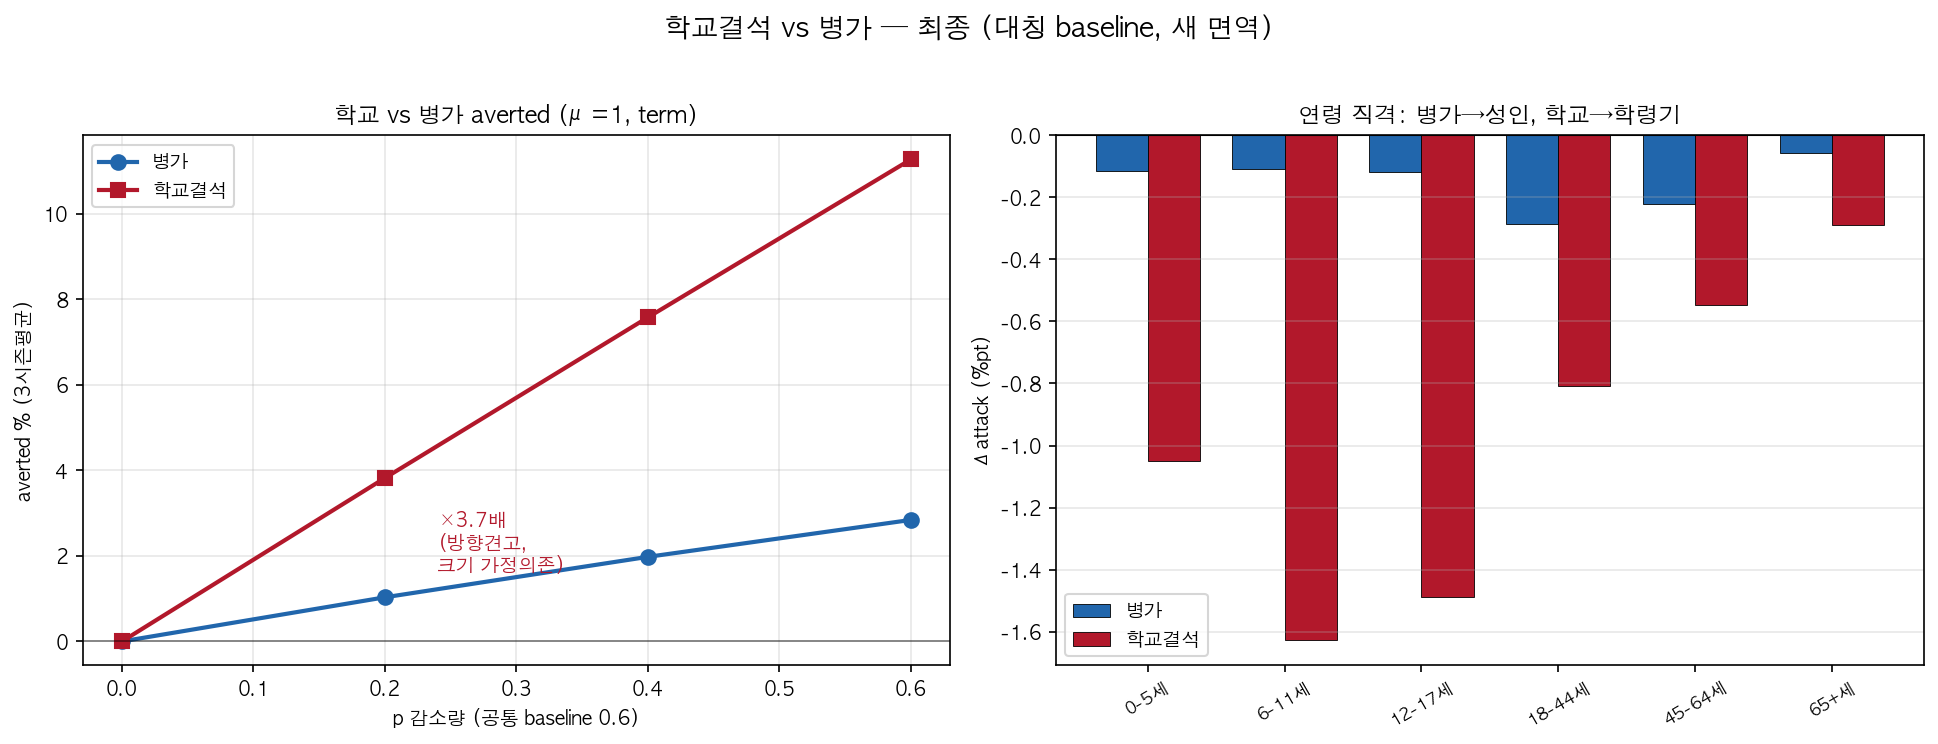
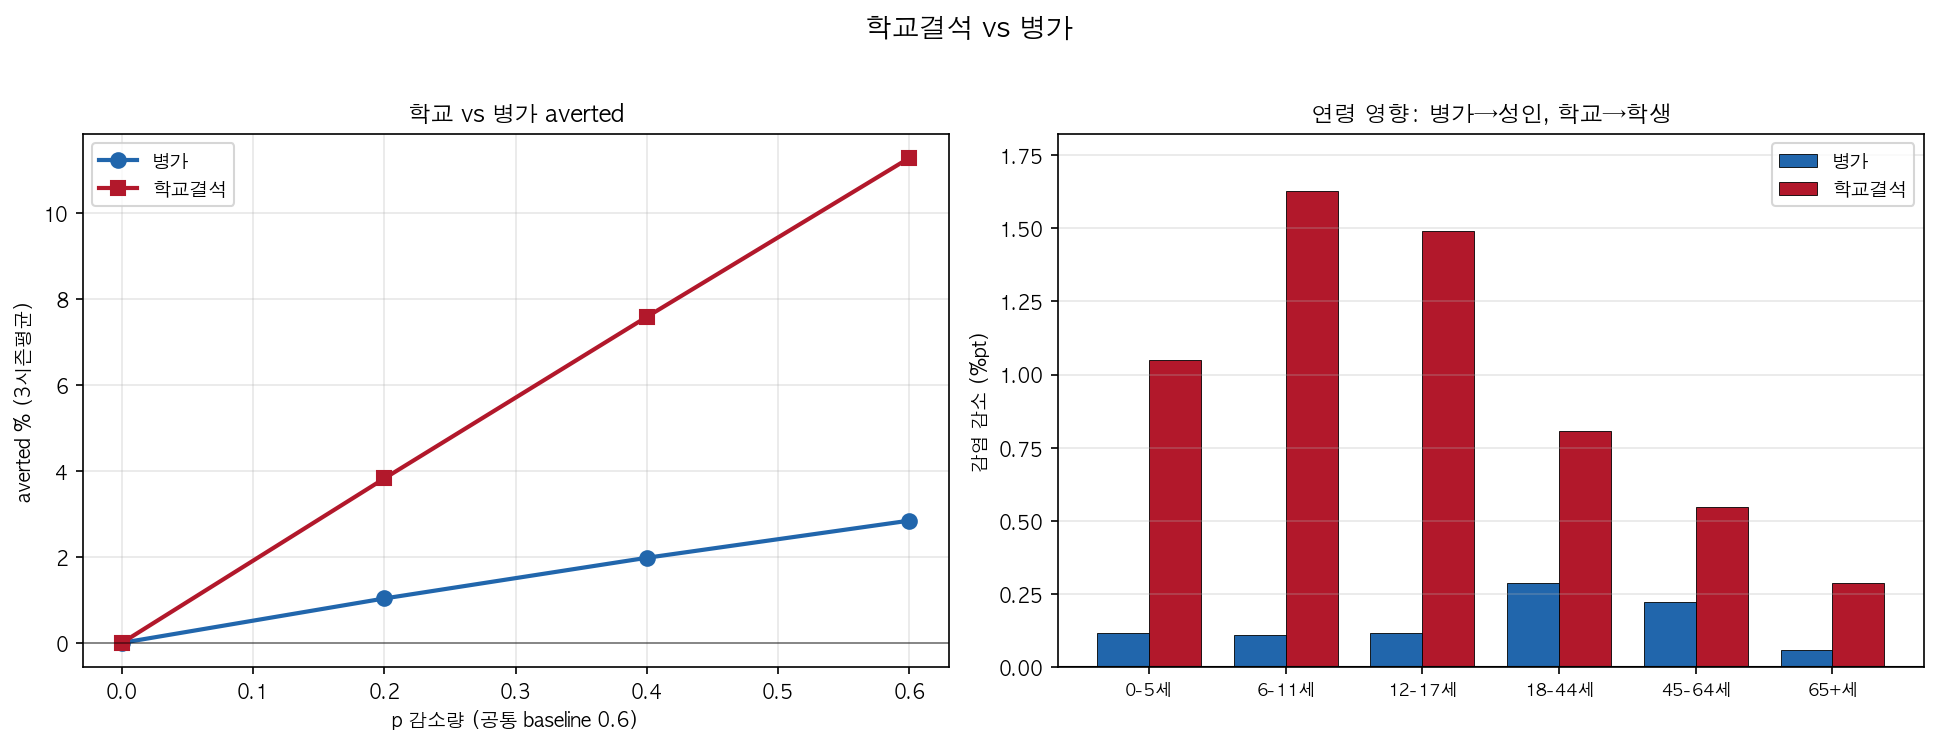
Presentation figures: text cleanup, averted-positive orientation, number variant
Figure edits (data/parameters unchanged, confirmed params throughout):
- viz_holiday_reversal_6seasons: plain titles, legend 학기/방학
- pres_school_vs_sick: drop ratio annotation, right panel flipped to
  averted (positive-up), horizontal age labels
- pres_school_vs_sick_number (new): same layout, right panel = averted
  number (명); adults dominate under number, students under rate
- viz_fit_erlang_byage: Erlang-only (single-I removed), ylim unified to
  100k across all 18 panels, per-age colors matching pres_fit_byage
- viz_contact_matrix_term_vacation, viz_infectious_period (new)

Redraw scripts cache their curve data to outputs/eda/*.json so later text
edits need no refit (REDRAW=1). outputs/ is gitignored.

diff --git a/scripts/regen_holiday_fig.py b/scripts/regen_holiday_fig.py
@@ -1,0 +1,59 @@
+"""viz_holiday_reversal_6seasons.png 만 재생성 (문구 수정본). 6시즌 fit + 방학 holiday만.
+데이터도 outputs/eda/regen_holiday.json 에 저장 → 향후 문구 수정은 이 JSON에서 즉시 재생성 가능."""
+import os, json, time
+os.environ["OMP_NUM_THREADS"]="1"; os.environ["OPENBLAS_NUM_THREADS"]="1"
+os.environ["MKL_NUM_THREADS"]="1"; os.environ["VECLIB_MAXIMUM_THREADS"]="1"
+os.environ["XLA_FLAGS"]="--xla_force_host_platform_device_count=1"
+from pathlib import Path
+import numpy as np
+import matplotlib; matplotlib.use("Agg"); import matplotlib.pyplot as plt
+plt.rcParams.update({"figure.dpi":110,"savefig.dpi":150,"axes.unicode_minus":False,"font.family":"AppleGothic","font.size":9})
+from kt_epimodel_hira.jax_model.loss_jax import HIRA_AGE_GROUPS
+import final_pipeline_confirmed as FP
+ED=Path(__file__).resolve().parent.parent/"outputs"/"eda"; FIG=Path(__file__).resolve().parent.parent/"presentations"/"figures"
+SEAS=FP.SEASONS; IDX=list(range(len(SEAS))) if False else [FP.MJ.SEASONS.index(s) for s in SEAS]
+PSHOW=0.2; CHILD=["0-5","6-11","12-17"]; BLUE="#2166AC"; RED="#B23A48"; JSON=ED/"regen_holiday.json"
+
+def compute():
+    t0=time.perf_counter(); C=FP.build(); print(f"[setup] {time.perf_counter()-t0:.1f}s")
+    hol={}
+    for i,s in enumerate(SEAS):
+        f=FP.fit_season_pi(C,i); R0,pi=f["R0"],f["pi"]
+        base=FP.attack6(C,FP.run_inc(C,i,R0,pi,p_work=FP.BASE_PWORK))
+        def da(work_win):
+            inc=FP.run_inc(C,i,R0,pi,p_work=PSHOW,work_win=work_win,work_base=FP.BASE_PWORK)
+            d=(FP.attack6(C,inc)-base)/C["pop6"]; return {ag:float(100*d[a]) for a,ag in enumerate(HIRA_AGE_GROUPS)}
+        dt=da(FP.TERM_WIN); dv=da(FP.VAC_WIN)
+        hol[s]=dict(term=dict(all=dt,child_sum=sum(dt[c] for c in CHILD)),
+                    vacation=dict(all=dv,child_sum=sum(dv[c] for c in CHILD)))
+        print(f"  {s}: term_child={hol[s]['term']['child_sum']:+.3f} vac_child={hol[s]['vacation']['child_sum']:+.3f}")
+    JSON.write_text(json.dumps(dict(meta=dict(PSHOW=PSHOW,baseline=FP.BASE_PWORK),results=hol),indent=2,default=float))
+    return hol
+
+def draw(hol):
+    labels=[f"{s[2:4]}-{s[7:9]}" for s in SEAS]
+    term=np.array([hol[s]["term"]["child_sum"] for s in SEAS]); vac=np.array([hol[s]["vacation"]["child_sum"] for s in SEAS])
+    fig,(ax1,ax2)=plt.subplots(2,1,figsize=(10,8.2)); x=np.arange(len(SEAS)); bw=0.38
+    # ── 문구 수정본 ──
+    ax1.bar(x-bw/2,term,bw,color=BLUE,label="학기",edgecolor="k",lw=0.5)          # legend: 학기
+    ax1.bar(x+bw/2,vac,bw,color=RED,label="방학",edgecolor="k",lw=0.5)            # legend: 방학
+    ax1.axhline(0,color="k",lw=1.8)
+    for xi,(tv,vv) in enumerate(zip(term,vac)):
+        ax1.text(xi-bw/2,tv-0.006,f"{tv:+.2f}",ha="center",va="top",fontsize=7.5,color=BLUE)
+        ax1.text(xi+bw/2,vv+0.006,f"{vv:+.2f}",ha="center",va="bottom",fontsize=7.5,color=RED)
+    ax1.set_xticks(x); ax1.set_xticklabels(labels); ax1.set_ylabel("아동(0–17) Δattack 합 (%pt)")
+    ax1.set_title(f"병가 아동영향: 학기중(파랑) vs 방학중(빨강) 개입 p_work={PSHOW}",fontsize=11.5,fontweight="bold")
+    ax1.legend(loc="upper right"); ax1.grid(axis="y",alpha=0.3); ax1.margins(y=0.18)
+    age_c={"0-5":"#9ecae1","6-11":"#ef6548","12-17":"#b30000"}; bw2=0.26
+    for j,ag in enumerate(CHILD):
+        vals=np.array([hol[s]["vacation"]["all"][ag] for s in SEAS]); ax2.bar(x+(j-1)*bw2,vals,bw2,color=age_c[ag],label=f"{ag}세",edgecolor="k",lw=0.4)
+    ax2.axhline(0,color="k",lw=1.5); ax2.set_xticks(x); ax2.set_xticklabels(labels); ax2.set_ylabel("방학중 Δattack (%pt)")
+    ax2.set_title("방학중 연령별 변화",fontsize=11.5,fontweight="bold")
+    ax2.legend(loc="upper left",ncol=3); ax2.grid(axis="y",alpha=0.3); ax2.margins(y=0.15)
+    fig.suptitle(f"학기중과 방학 비교 (p_work={PSHOW})",fontsize=13,fontweight="bold",y=0.995)
+    fig.tight_layout(rect=[0,0,1,0.97]); fig.savefig(FIG/"viz_holiday_reversal_6seasons.png",bbox_inches="tight"); plt.close(fig)
+    print(f"[fig] viz_holiday_reversal_6seasons.png")
+
+if __name__=="__main__":
+    hol=json.load(open(JSON))["results"] if (JSON.exists() and os.environ.get("REDRAW")) else compute()
+    draw(hol)

diff --git a/scripts/school_vs_sick_redraw.py b/scripts/school_vs_sick_redraw.py
@@ -1,0 +1,54 @@
+"""pres_school_vs_sick(.png) 수정본 + pres_school_vs_sick_number.png 신규.
+저장 데이터(v3_school_vs_sick.json + v3_rate_vs_number.json)로만 재작도 — 계산 없음.
+그림A 오른쪽: averted rate (양수, 위로). 그림B 오른쪽: averted number(명).
+확정 파라미터(3시즌, p=0.4, μ=1). model/·.bak 무수정."""
+import os, json
+os.environ["XLA_FLAGS"]="--xla_force_host_platform_device_count=1"
+from pathlib import Path
+import numpy as np
+import matplotlib; matplotlib.use("Agg"); import matplotlib.pyplot as plt
+plt.rcParams.update({"figure.dpi":110,"savefig.dpi":150,"axes.unicode_minus":False,"font.family":"AppleGothic","font.size":9})
+from kt_epimodel_hira.jax_model.loss_jax import HIRA_AGE_GROUPS
+
+ED=Path(__file__).resolve().parent.parent/"outputs"/"eda"
+FIG=Path(__file__).resolve().parent.parent/"presentations"/"figures"
+BLUE="#2166AC"; RED="#B2182B"; BASE=0.6
+sv=json.load(open(ED/"v3_school_vs_sick.json")); rn=json.load(open(ED/"v3_rate_vs_number.json"))
+P=sv["meta"]["P"]; SEAS=list(sv["results"].keys())
+xs=[BASE-p for p in P]
+sick_curve=[float(np.mean([sv["results"][s]["sick"][str(p)]["av"] for s in SEAS])) for p in P]
+sch_curve =[float(np.mean([sv["results"][s]["school"][str(p)]["av"] for s in SEAS])) for p in P]
+av_rate_sk=-np.asarray(rn["rate_sick"]); av_rate_sc=-np.asarray(rn["rate_school"])   # 감소를 양수로
+num_sk=np.asarray(rn["num_sick"]); num_sc=np.asarray(rn["num_school"])               # 이미 양수(명)
+AGL=[a+"세" for a in HIRA_AGE_GROUPS]; x=np.arange(6); bw=0.38
+
+def left(a1):
+    a1.plot(xs,sick_curve,"o-",color=BLUE,lw=2,ms=7,label="병가")
+    a1.plot(xs,sch_curve,"s-",color=RED,lw=2,ms=7,label="학교결석")
+    a1.axhline(0,color="k",lw=0.8,alpha=0.5)
+    a1.set_xlabel("p 감소량 (공통 baseline 0.6)"); a1.set_ylabel("averted % (3시즌평균)")
+    a1.set_title("학교 vs 병가 averted",fontsize=11,fontweight="bold")
+    a1.legend(fontsize=9); a1.grid(alpha=0.3)
+
+def right_bars(a2,ysk,ysc,ylab,title):
+    a2.bar(x-bw/2,ysk,bw,color=BLUE,label="병가",edgecolor="k",lw=0.4)
+    a2.bar(x+bw/2,ysc,bw,color=RED,label="학교결석",edgecolor="k",lw=0.4)
+    a2.axhline(0,color="k",lw=1); a2.set_xticks(x); a2.set_xticklabels(AGL,rotation=0,fontsize=8)
+    a2.set_ylabel(ylab); a2.set_title(title,fontsize=11,fontweight="bold")
+    a2.legend(fontsize=9); a2.grid(axis="y",alpha=0.3); a2.margins(y=0.12)
+
+# ── 그림 A: averted rate (%pt) ──
+fig,(a1,a2)=plt.subplots(1,2,figsize=(13,5))
+left(a1)
+right_bars(a2,av_rate_sk,av_rate_sc,"감염 감소 (%pt)","연령 영향: 병가→성인, 학교→학생")
+fig.suptitle("학교결석 vs 병가",fontsize=13,fontweight="bold")
+fig.tight_layout(rect=[0,0,1,0.95]); fig.savefig(FIG/"pres_school_vs_sick.png",bbox_inches="tight"); plt.close(fig)
+print(f"[figA] pres_school_vs_sick.png  rate 최대: 병가={HIRA_AGE_GROUPS[av_rate_sk.argmax()]} 학교={HIRA_AGE_GROUPS[av_rate_sc.argmax()]}")
+
+# ── 그림 B: averted number (명) ──
+fig,(a1,a2)=plt.subplots(1,2,figsize=(13,5))
+left(a1)
+right_bars(a2,num_sk,num_sc,"averted number (명)","연령 영향 (감염 수): 병가→성인, 학교→성인")
+fig.suptitle("학교결석 vs 병가",fontsize=13,fontweight="bold")
+fig.tight_layout(rect=[0,0,1,0.95]); fig.savefig(FIG/"pres_school_vs_sick_number.png",bbox_inches="tight"); plt.close(fig)
+print(f"[figB] pres_school_vs_sick_number.png  number 최대: 병가={HIRA_AGE_GROUPS[num_sk.argmax()]}({num_sk.max():.0f}명) 학교={HIRA_AGE_GROUPS[num_sc.argmax()]}({num_sc.max():.0f}명)")

diff --git a/scripts/viz_contact_matrix.py b/scripts/viz_contact_matrix.py
@@ -1,0 +1,54 @@
+"""학기/방학 접촉행렬 히트맵 (발표용). 3패널: 학기 전체 / 방학 전체 / 차분.
+
+★ 축 관례 (로더 검증 완료):
+  load_contact_matrices 는 모델 컨벤션 [contact, participant] 로 반환(transpose=True).
+  즉 반환행렬 C[i,j]: 행 i = contact(접촉 상대), 열 j = participant(응답자).
+  → 태스크 요구(x=participant, y=contacted)와 이미 일치 → transpose 불필요.
+  검증: C_work 아동 열(participant)=0 (아동은 직장 접촉 미보고).
+전체행렬 = 4채널(home+work+school+other) 합. 값=1인1일당 접촉수.
+Output: figures/viz_contact_matrix_term_vacation.png
+"""
+import os
+os.environ["XLA_FLAGS"]="--xla_force_host_platform_device_count=1"
+from pathlib import Path
+import numpy as np
+import matplotlib; matplotlib.use("Agg")
+import matplotlib.pyplot as plt
+from matplotlib.colors import TwoSlopeNorm
+plt.rcParams.update({"figure.dpi":110,"savefig.dpi":150,"axes.unicode_minus":False,"font.family":"AppleGothic","font.size":9})
+from kt_data.data.load_contact import load_contact_matrices
+
+D=Path("../kt_data/data/external/contact_matrices")
+FIG=Path(__file__).resolve().parent.parent/"presentations"/"figures"; FIG.mkdir(parents=True,exist_ok=True)
+LAB=["0-4","5-9","10-14","15-19","20-24","25-29","30-34","35-39","40-44","45-49","50-54","55-59","60-64","65-69","70+"]
+CH=("C_home","C_school","C_work","C_other")
+
+def total(path):
+    m=load_contact_matrices(path=path)   # [contact, participant]
+    return sum(np.asarray(m[c]) for c in CH)  # (15,15)
+
+term=total(D/"empirical_matrices_15.npz")       # 학기 (현 base)
+vac=total(D/"empirical_matrices_15_vacation.npz")# 방학
+diff=term-vac                                     # 학기−방학 (양수=방학에 감소)
+print(f"학기 합={term.sum():.1f} 방학 합={vac.sum():.1f}  차분 합={diff.sum():.1f}")
+# 대칭성 (raw 비대칭 확인)
+print(f"학기 max|C-C.T|={np.abs(term-term.T).max():.3f} (비대칭 raw)")
+
+vmax=max(term.max(),vac.max())
+fig,axes=plt.subplots(1,2,figsize=(13,6))
+def draw(ax,M,title,cmap,vmin=None,vmax=None):
+    im=ax.imshow(M,origin="lower",cmap=cmap,vmin=vmin,vmax=vmax,aspect="equal")
+    ax.set_xticks(range(15)); ax.set_xticklabels(LAB,rotation=90,fontsize=7)
+    ax.set_yticks(range(15)); ax.set_yticklabels(LAB,fontsize=7)
+    ax.set_xlabel("응답자 연령 (participant)",fontsize=9); ax.set_ylabel("접촉 상대 연령 (contacted)",fontsize=9)
+    ax.set_title(title,fontsize=12,fontweight="bold")
+    return im
+im1=draw(axes[0],term,"학기 (term)","YlOrRd",vmin=0,vmax=vmax)
+im2=draw(axes[1],vac,"방학 (vacation)","YlOrRd",vmin=0,vmax=vmax)
+cb1=fig.colorbar(im2,ax=axes,fraction=0.023,pad=0.02); cb1.set_label("일 평균 접촉 수",fontsize=9)
+fig.suptitle("학기 vs 방학 접촉행렬",fontsize=14,fontweight="bold")
+fig.savefig(FIG/"viz_contact_matrix_term_vacation.png",bbox_inches="tight"); plt.close(fig)
+print(f"[fig] {FIG/'viz_contact_matrix_term_vacation.png'}")
+# 방학 school 감소 확인: 학령기(5-19=idx1-3) 영역 차분
+sa=diff[1:4,1:4]
+print(f"학령기(5-19) 블록 차분 평균={sa.mean():.3f} (양수=방학에 감소)  최대감소셀={diff.max():.3f}")

diff --git a/scripts/erlang_byage_redraw.py b/scripts/erlang_byage_redraw.py
@@ -1,0 +1,57 @@
+"""viz_fit_erlang_byage.png 재작도 — Erlang만, y축 10만 고정.
+재적합(fitting) 없음: erlang_fit.json 의 확정 R0/pi 로 forward 예측만 (3시즌).
+예측곡선을 erlang_byage_preds.json 에 저장 → 이후 문구/축 수정은 REDRAW=1 로 즉시(계산 없음).
+단일 I 제거. 색=연령별(pres_fit_byage 통일). model/·.bak 무수정."""
+import os, json
+os.environ["OMP_NUM_THREADS"]="1"; os.environ["OPENBLAS_NUM_THREADS"]="1"
+os.environ["MKL_NUM_THREADS"]="1"; os.environ["VECLIB_MAXIMUM_THREADS"]="1"
+os.environ["XLA_FLAGS"]="--xla_force_host_platform_device_count=1"
+from pathlib import Path
+import numpy as np
+import matplotlib; matplotlib.use("Agg"); import matplotlib.pyplot as plt
+plt.rcParams.update({"figure.dpi":110,"savefig.dpi":150,"axes.unicode_minus":False,"font.family":"AppleGothic","font.size":9})
+from kt_epimodel_hira.jax_model.loss_jax import HIRA_AGE_GROUPS
+
+ED=Path(__file__).resolve().parent.parent/"outputs"/"eda"
+FIG=Path(__file__).resolve().parent.parent/"presentations"/"figures"
+FB=FIG/"viz_fit_erlang_byage.png"; PJ=ED/"erlang_byage_preds.json"
+SEAS=["2016-2017","2017-2018","2019-2020"]
+AGE_C=["#4575b4","#74add1","#fdae61","#f46d43","#d73027","#7b3294"]; GRAY="#666666"; YMAX=100000.0
+
+fit=json.load(open(ED/"erlang_fit.json"))
+
+def compute():
+    import jax; jax.config.update("jax_enable_x64",True); jax.devices()
+    import erlang_fit as E   # forward pred helpers + build
+    C=E.F.build(); preds={}
+    for s in SEAS:
+        i=E.F.SEASONS.index(s); r=fit["results"][s]["erlang"]
+        preds[s]=E.pred_erlang(C,i,r["R0"],r["pi"]).tolist()
+    obs={s:np.asarray(C["full_obs"][s]).tolist() for s in SEAS}
+    PJ.write_text(json.dumps(dict(preds=preds,obs=obs),default=float))
+    return preds,obs
+
+def draw(preds,obs):
+    weeks=np.arange(52)
+    fig,axes=plt.subplots(3,6,figsize=(16,7.5),sharex=True,sharey=True)
+    for r,s in enumerate(SEAS):
+        pe=np.asarray(preds[s]); ob=np.asarray(obs[s])
+        for c,ag in enumerate(HIRA_AGE_GROUPS):
+            ax=axes[r,c]
+            ax.plot(weeks,ob[:,c],"o",color=GRAY,ms=2,alpha=0.6)
+            ax.plot(weeks,pe[:,c],"-",color=AGE_C[c],lw=1.6)
+            ax.set_ylim(0,YMAX); ax.grid(alpha=0.2)
+            ax.text(0.04,0.8,f"{fit['results'][s]['erlang']['om_age'][ag]:.2f}",transform=ax.transAxes,fontsize=7,color="#333")
+            if r==0: ax.set_title(f"{ag}세",fontsize=9,fontweight="bold")
+            if c==0: ax.set_ylabel(f"{s}",fontsize=8,fontweight="bold")
+            ax.tick_params(labelsize=6)
+    fig.suptitle("3시즌 × 연령별 fit (Erlang I₃)",fontsize=12.5,fontweight="bold")
+    fig.tight_layout(rect=[0,0,1,0.96]); fig.savefig(FB,bbox_inches="tight"); plt.close(fig)
+    print(f"[fig] {FB}")
+
+if __name__=="__main__":
+    if PJ.exists() and os.environ.get("REDRAW"):
+        d=json.load(open(PJ)); preds,obs=d["preds"],d["obs"]
+    else:
+        preds,obs=compute()
+    draw(preds,obs)

diff --git a/scripts/viz_infectious_period.py b/scripts/viz_infectious_period.py
@@ -1,0 +1,43 @@
+"""감염기간 분포 개념도: 지수(단일 I) vs Erlang(3). 발표용.
+좌: 감염기간 확률밀도 (둘 다 평균 4일, 모양 차이). 우: 유행곡선 폭 연결(개념).
+지수=빨강, Erlang=녹색 (Erlang fit 그림과 색 통일). Output: figures/viz_infectious_period.png"""
+import os
+os.environ["XLA_FLAGS"]="--xla_force_host_platform_device_count=1"
+from pathlib import Path
+import numpy as np
+from scipy.stats import expon, erlang
+import matplotlib; matplotlib.use("Agg"); import matplotlib.pyplot as plt
+plt.rcParams.update({"figure.dpi":110,"savefig.dpi":150,"axes.unicode_minus":False,"font.family":"AppleGothic","font.size":10})
+FIG=Path(__file__).resolve().parent.parent/"presentations"/"figures"; FIG.mkdir(parents=True,exist_ok=True)
+EXP="#B23A48"; ERL="#1a9850"
+MEAN=4.0; GAMMA=1/MEAN   # 평균 감염기간 4일
+t=np.linspace(0,15,600)
+# 지수(단일 I): rate γ, 평균 1/γ=4
+pdf_exp=expon.pdf(t,scale=MEAN)
+# Erlang(3): shape k=3, 각 단계 rate 3γ → scale=1/(3γ)=MEAN/3, 평균 k*scale=4
+pdf_erl=erlang.pdf(t,3,scale=MEAN/3)
+
+fig,(a1,a2)=plt.subplots(1,2,figsize=(13,5))
+# 좌: 밀도
+a1.plot(t,pdf_exp,"-",color=EXP,lw=2.5,label="지수 (단일 I)")
+a1.plot(t,pdf_erl,"-",color=ERL,lw=2.5,label="Erlang(3)")
+a1.fill_between(t,pdf_exp,alpha=0.08,color=EXP); a1.fill_between(t,pdf_erl,alpha=0.10,color=ERL)
+a1.axvline(MEAN,color="k",ls="--",lw=1.3); a1.text(MEAN+0.2,0.235,"평균 4일",fontsize=10,fontweight="bold")
+a1.set_xlabel("감염 후 경과일"); a1.set_ylabel("확률밀도")
+a1.set_title("감염기간 분포",fontsize=13,fontweight="bold")
+a1.legend(fontsize=11,loc="upper right"); a1.grid(alpha=0.25); a1.set_xlim(0,15); a1.set_ylim(bottom=0)
+
+# 우: 개념 유행곡선
+x=np.linspace(0,52,400); mu=18
+def bell(sd,amp): return amp*np.exp(-0.5*((x-mu)/sd)**2)
+a2.plot(x,bell(5.0,1.0),"-",color=EXP,lw=2.5,label="지수")
+a2.plot(x,bell(4.0,1.18),"-",color=ERL,lw=2.5,label="Erlang(3)")
+a2.set_xlabel("주차"); a2.set_title("유행 곡선",fontsize=13,fontweight="bold")
+a2.legend(fontsize=11); a2.grid(alpha=0.25); a2.set_yticks([])
+
+fig.suptitle("지수 vs Erlang(3) — 같은 평균(4일), 다른 분포",fontsize=14,fontweight="bold")
+fig.tight_layout(rect=[0,0,1,0.95]); fig.savefig(FIG/"viz_infectious_period.png",bbox_inches="tight"); plt.close(fig)
+# 수치 확인
+print(f"지수: 평균={expon.mean(scale=MEAN):.1f}일 분산={expon.var(scale=MEAN):.1f}  P(>10일)={expon.sf(10,scale=MEAN):.3f}")
+print(f"Erlang3: 평균={erlang.mean(3,scale=MEAN/3):.1f}일 분산={erlang.var(3,scale=MEAN/3):.1f}  P(>10일)={erlang.sf(10,3,scale=MEAN/3):.3f}")
+print(f"[fig] {FIG/'viz_infectious_period.png'}")

diff --git a/scripts/final_pipeline_confirmed.py b/scripts/final_pipeline_confirmed.py
@@ -268,23 +268,23 @@ def main():
     vac = np.array([hol[s][PSHOW]["vacation"]["child_sum"] for s in SEASONS])
     nrev = sum(1 for s in SEASONS if hol[s][PSHOW]["reversal"])
     fig, (ax1, ax2) = plt.subplots(2, 1, figsize=(10, 8.2)); x = np.arange(6); bw = 0.38
-    ax1.bar(x-bw/2, term, bw, color=BLUE, label="학기중 창", edgecolor="k", lw=0.5)
-    ax1.bar(x+bw/2, vac, bw, color=RED, label="방학중 창", edgecolor="k", lw=0.5)
+    ax1.bar(x-bw/2, term, bw, color=BLUE, label="학기", edgecolor="k", lw=0.5)
+    ax1.bar(x+bw/2, vac, bw, color=RED, label="방학", edgecolor="k", lw=0.5)
     ax1.axhline(0, color="k", lw=1.8)
     for xi, (tv, vv) in enumerate(zip(term, vac)):
         ax1.text(xi-bw/2, tv-0.006, f"{tv:+.2f}", ha="center", va="top", fontsize=7.5, color=BLUE)
         ax1.text(xi+bw/2, vv+0.006, f"{vv:+.2f}", ha="center", va="bottom", fontsize=7.5, color=RED)
     ax1.set_xticks(x); ax1.set_xticklabels(labels); ax1.set_ylabel("아동(0–17) Δattack 합 (%pt)")
-    ax1.set_title(f"병가 아동영향: 학기중(파랑) vs 방학중(빨강)  개입 p_work={PSHOW}  ({nrev}/6 반전, baseline 0.6)", fontsize=11.5, fontweight="bold")
+    ax1.set_title(f"병가 아동영향: 학기중(파랑) vs 방학중(빨강)  개입 p_work={PSHOW}", fontsize=11.5, fontweight="bold")
     ax1.legend(loc="upper right"); ax1.grid(axis="y", alpha=0.3); ax1.margins(y=0.18)
     age_c = {"0-5": "#9ecae1", "6-11": "#ef6548", "12-17": "#b30000"}; bw2 = 0.26
     for j, ag in enumerate(CHILD):
         vals = np.array([hol[s][PSHOW]["vacation"]["all"][ag] for s in SEASONS])
         ax2.bar(x+(j-1)*bw2, vals, bw2, color=age_c[ag], label=f"{ag}세", edgecolor="k", lw=0.4)
     ax2.axhline(0, color="k", lw=1.5); ax2.set_xticks(x); ax2.set_xticklabels(labels); ax2.set_ylabel("방학중 Δattack (%pt)")
-    ax2.set_title("방학중 병가: 연령별 (확정 γ 반영)", fontsize=11.5, fontweight="bold")
+    ax2.set_title("방학중 연령별 변화", fontsize=11.5, fontweight="bold")
     ax2.legend(loc="upper left", ncol=3); ax2.grid(axis="y", alpha=0.3); ax2.margins(y=0.15)
-    fig.suptitle(f"방학 부호반전 (확정 파라미터, 개입 강도 p_work={PSHOW})", fontsize=13, fontweight="bold", y=0.995)
+    fig.suptitle(f"학기중과 방학 비교 (p_work={PSHOW})", fontsize=13, fontweight="bold", y=0.995)
     fig.tight_layout(rect=[0, 0, 1, 0.97]); fig.savefig(FIGDIR/"viz_holiday_reversal_6seasons.png", bbox_inches="tight"); plt.close(fig)
     print("  [fig4] viz_holiday_reversal_6seasons.png")
     print("=" * 96)
